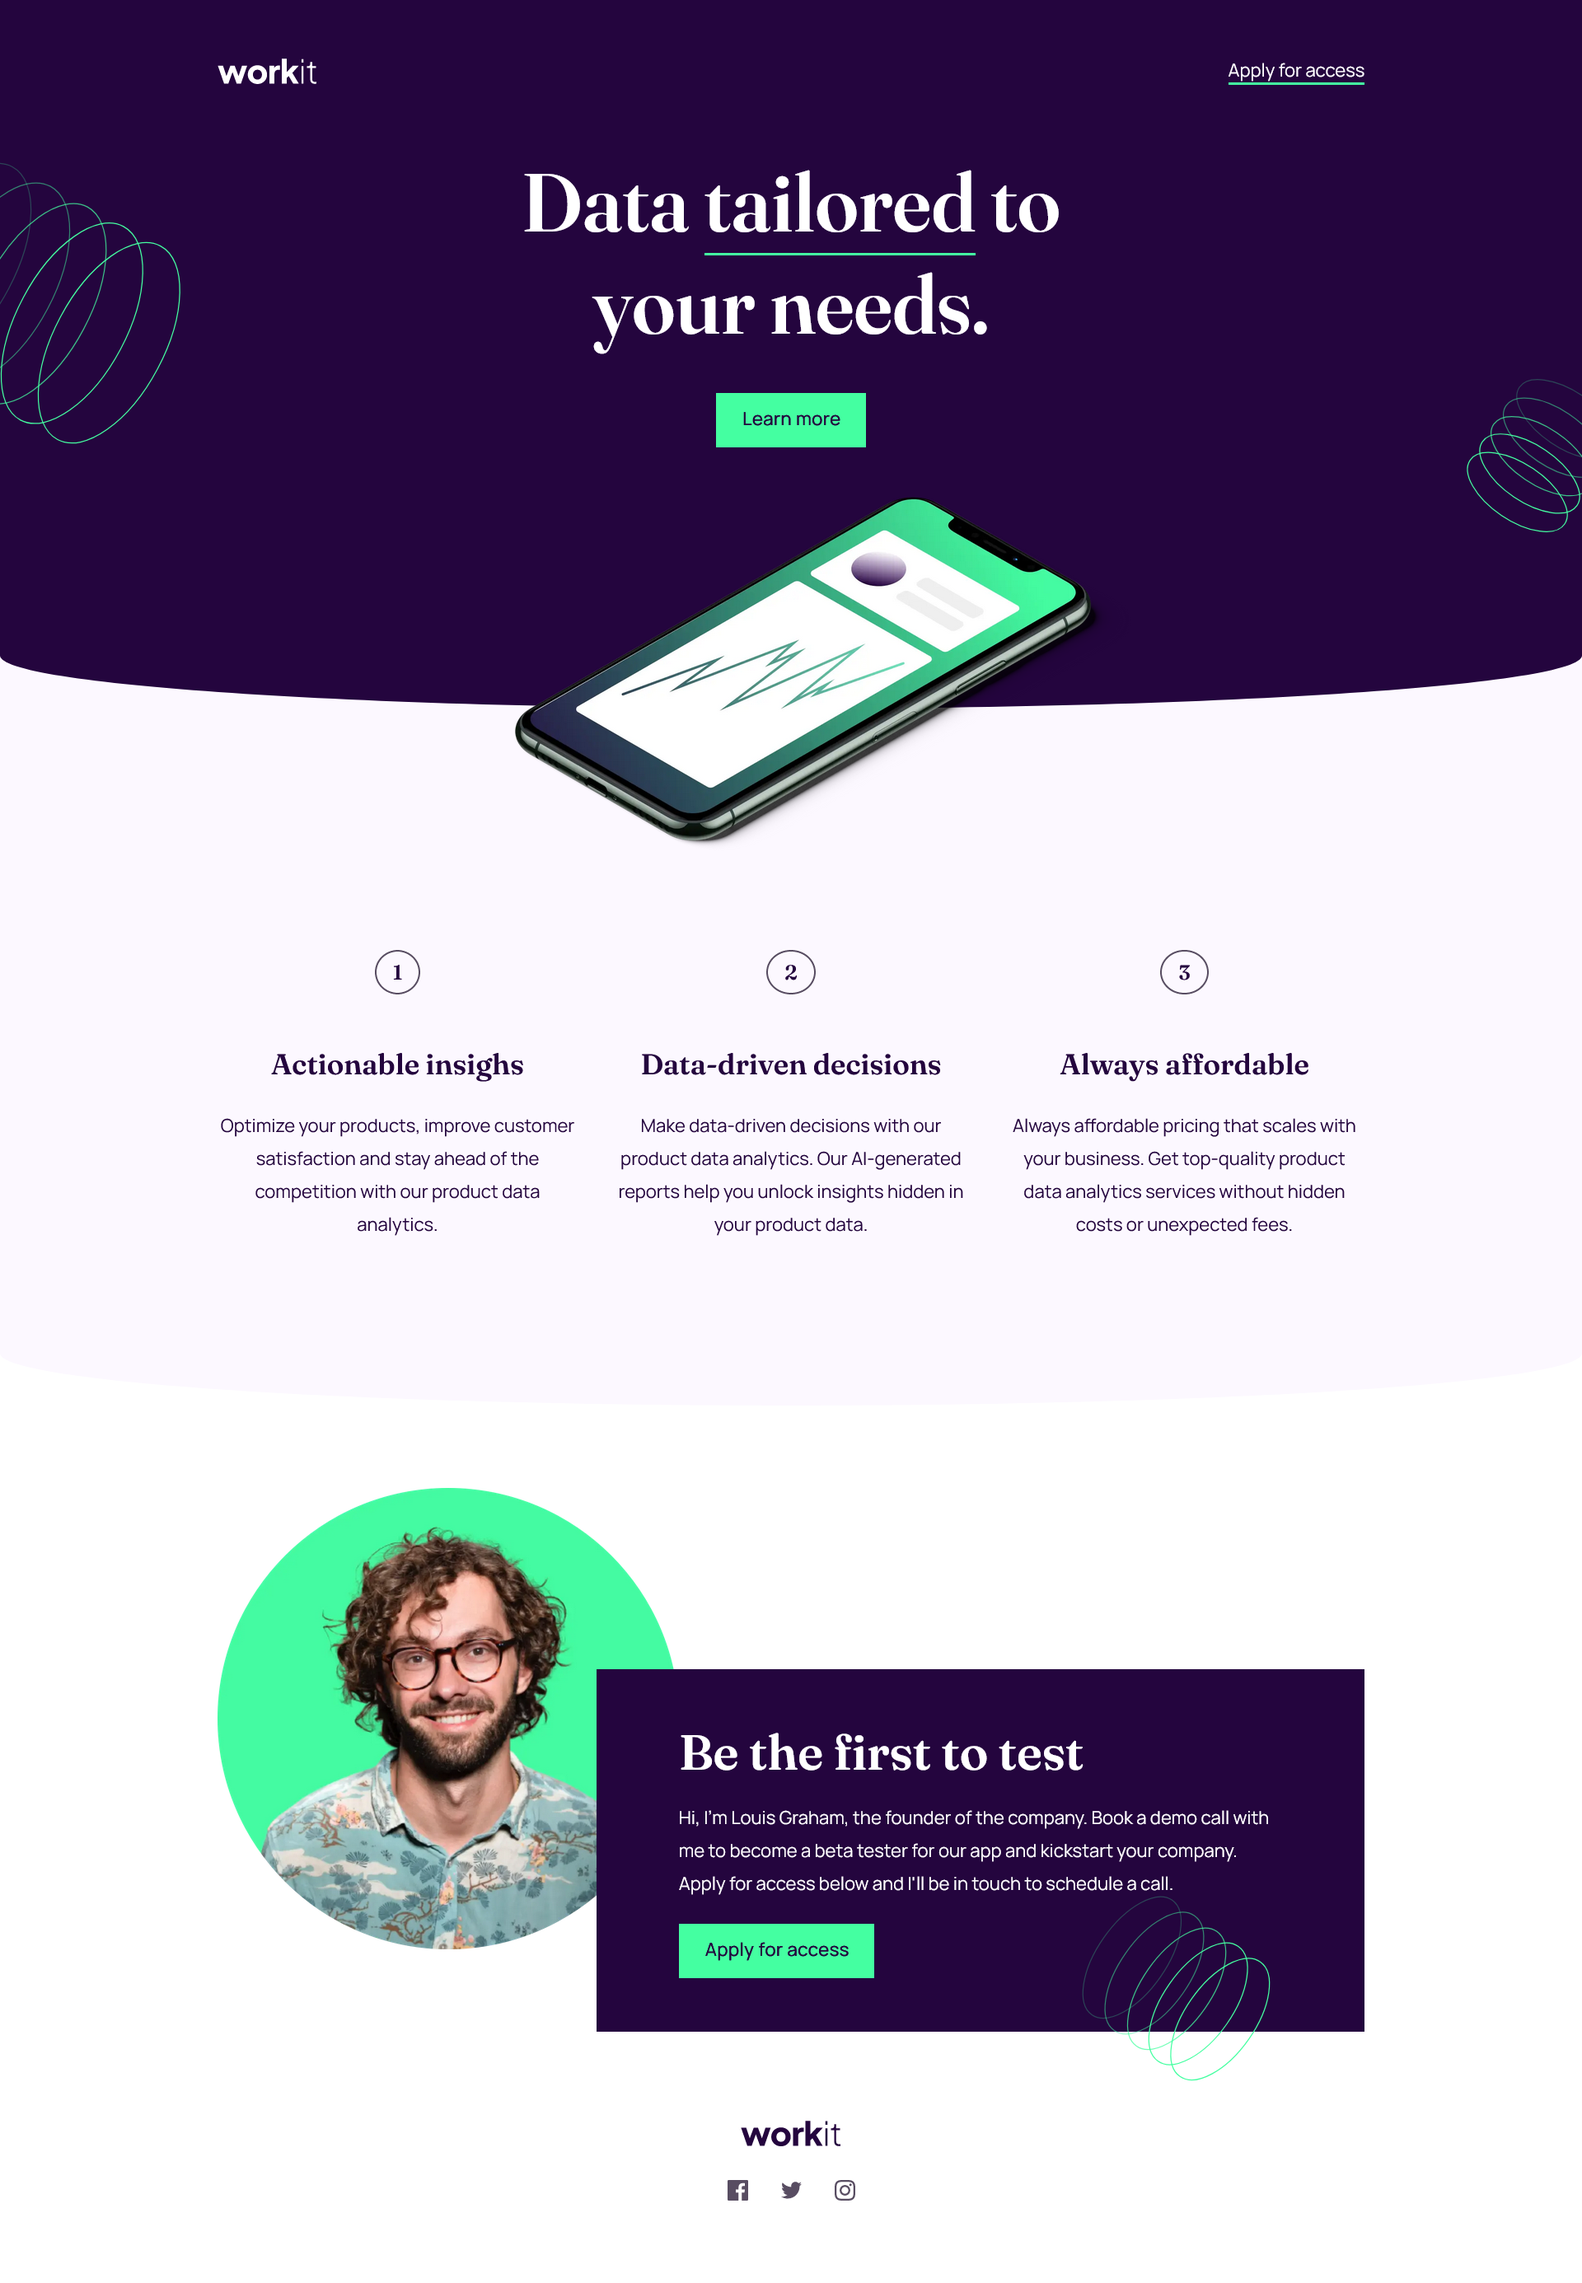
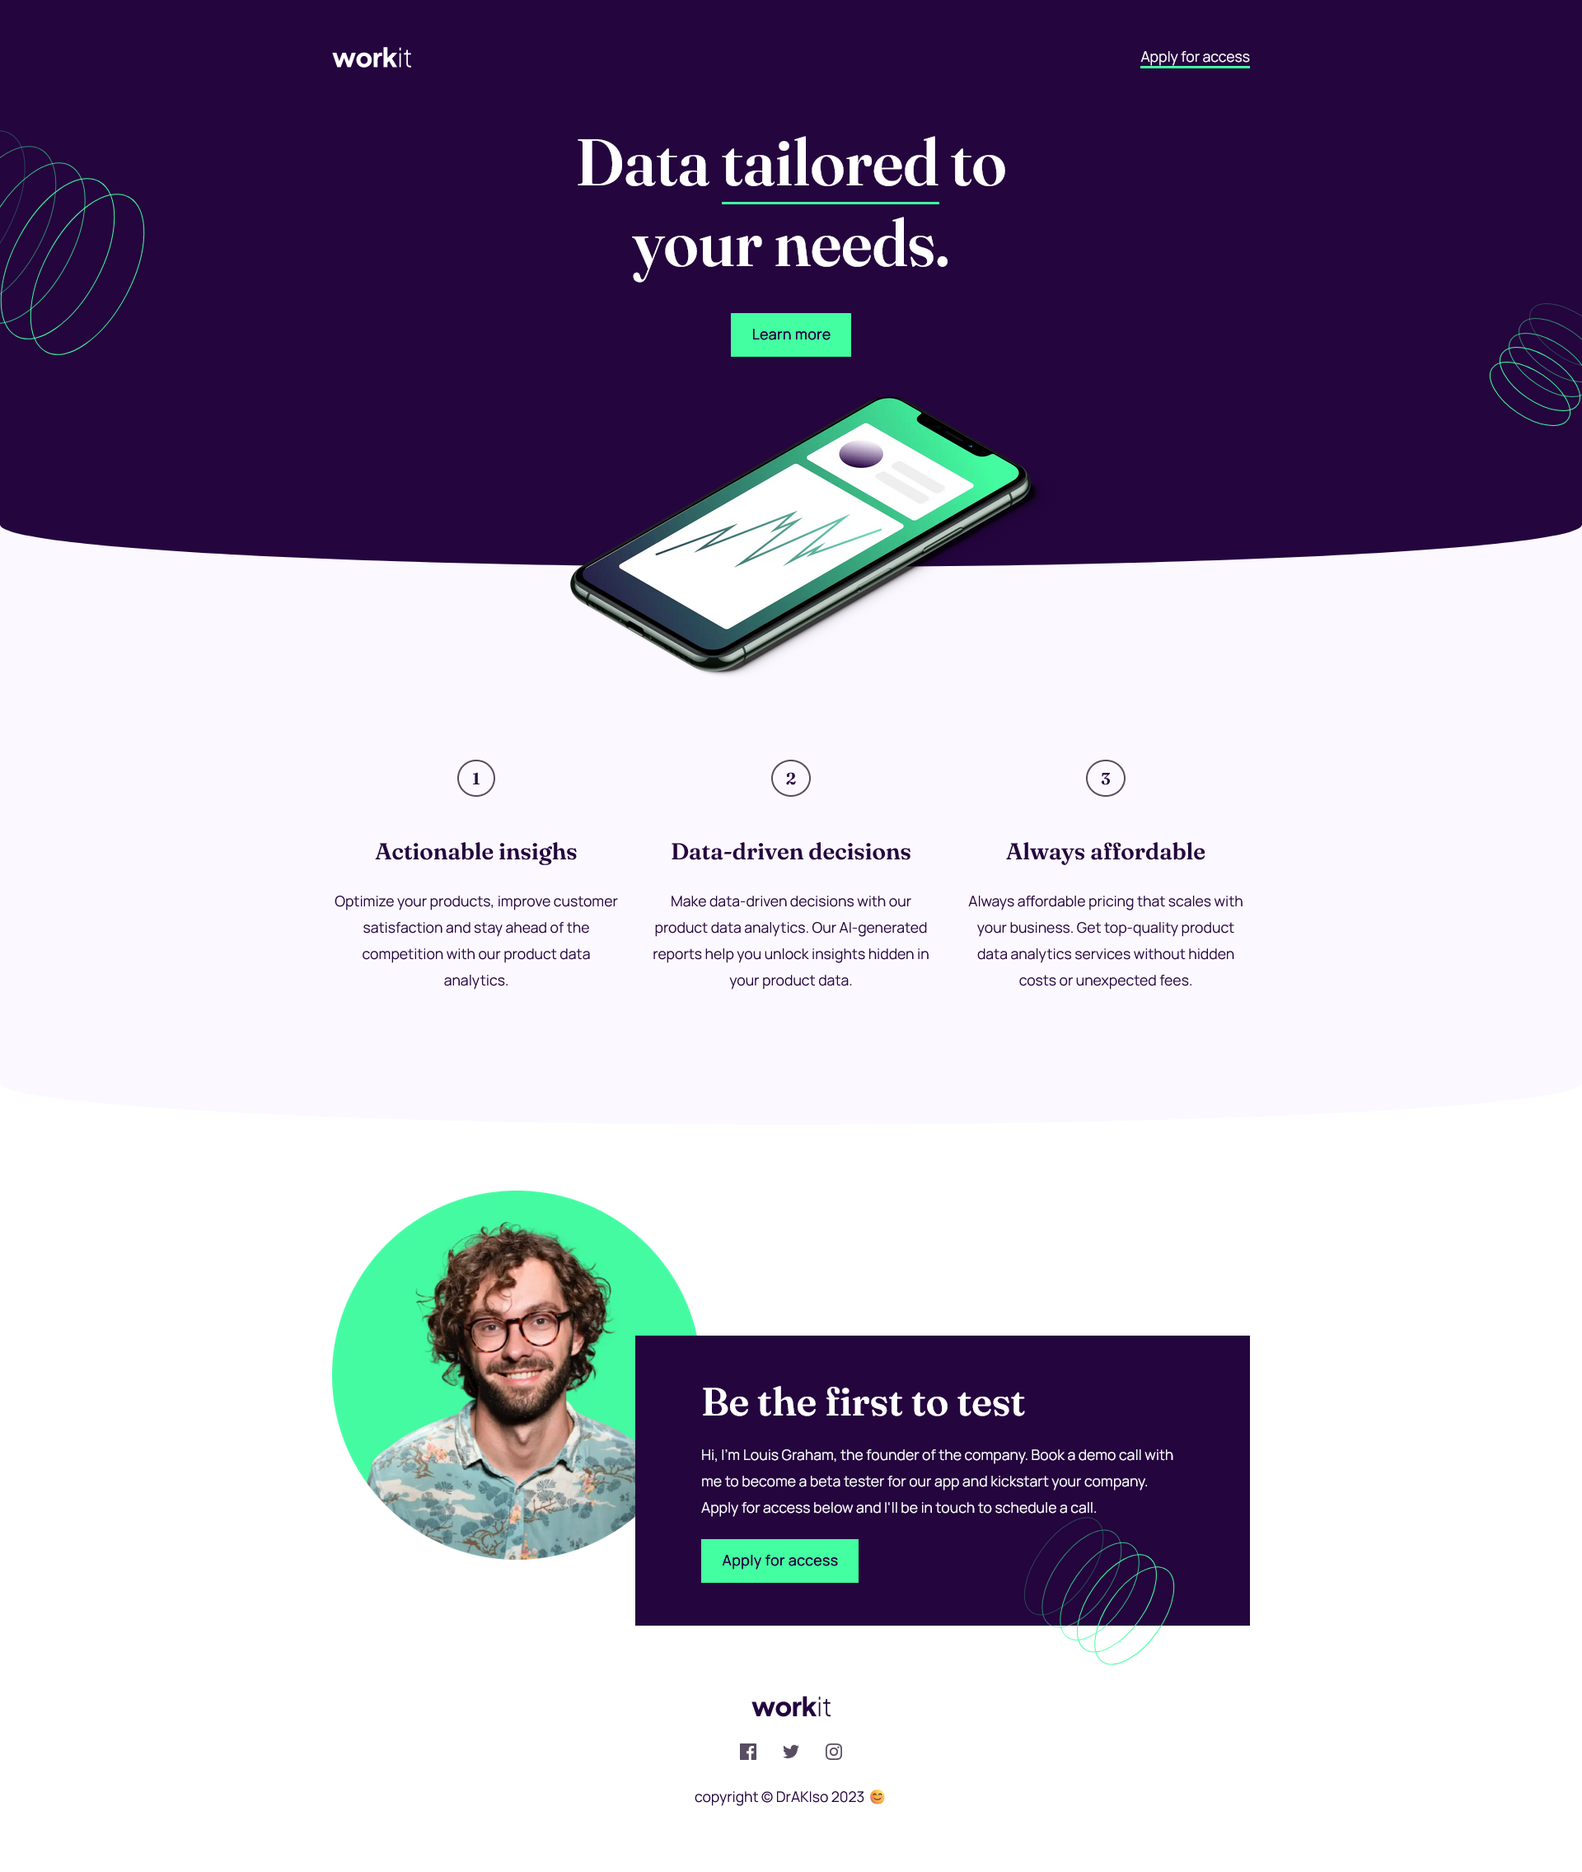
add copyrigt

diff --git a/index.html b/index.html
@@ -91,6 +91,7 @@
                     <img src="./assets/images/icon-twitter.svg" alt="icon twitter">
                     <img src="./assets/images/icon-instagram.svg" alt="icon instagram">
                 </div>
+                <div> copyright © DrAKIso 2023 😊 </div>
             </footer>
         </div>
     </body>

diff --git a/scss/main.scss b/scss/main.scss
@@ -345,6 +345,7 @@ footer {
         flex-direction: column;
         align-items: center;
         gap: 2rem;
+        color: $secondary_text_color;
 
         .social_media {
                 display: flex;

diff --git a/css/style.css b/css/style.css
@@ -390,6 +390,7 @@ footer {
   flex-direction: column;
   align-items: center;
   gap: 2rem;
+  color: #24053E;
 }
 footer .social_media {
   display: flex;
